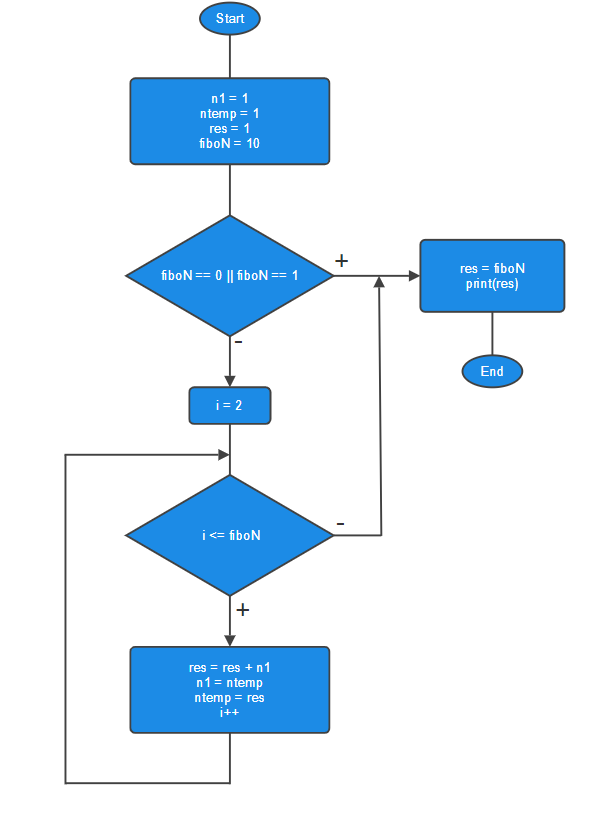
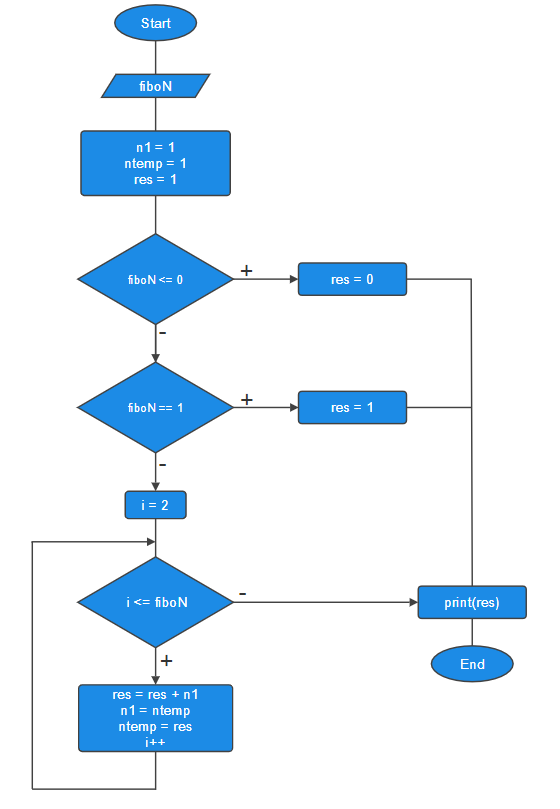
Final version of fibo algorithm

Changed region(s): [[0.0911, 0.0, 0.9714, 0.9889], [0.0304, 0.6799, 0.0607, 0.958]]

diff --git a/Lesson_3/fibonacci/fibo.py b/Lesson_3/fibonacci/fibo.py
@@ -1,0 +1,16 @@
+n1 = 1
+ntemp = 1
+res = 1
+fiboN = 10
+
+if fiboN <= 0:
+    res = 0
+elif fiboN == 1:
+    res = 1
+else:
+    for i in range(2, fiboN):
+        res += n1
+        n1 = ntemp
+        ntemp = res
+
+print(res)
